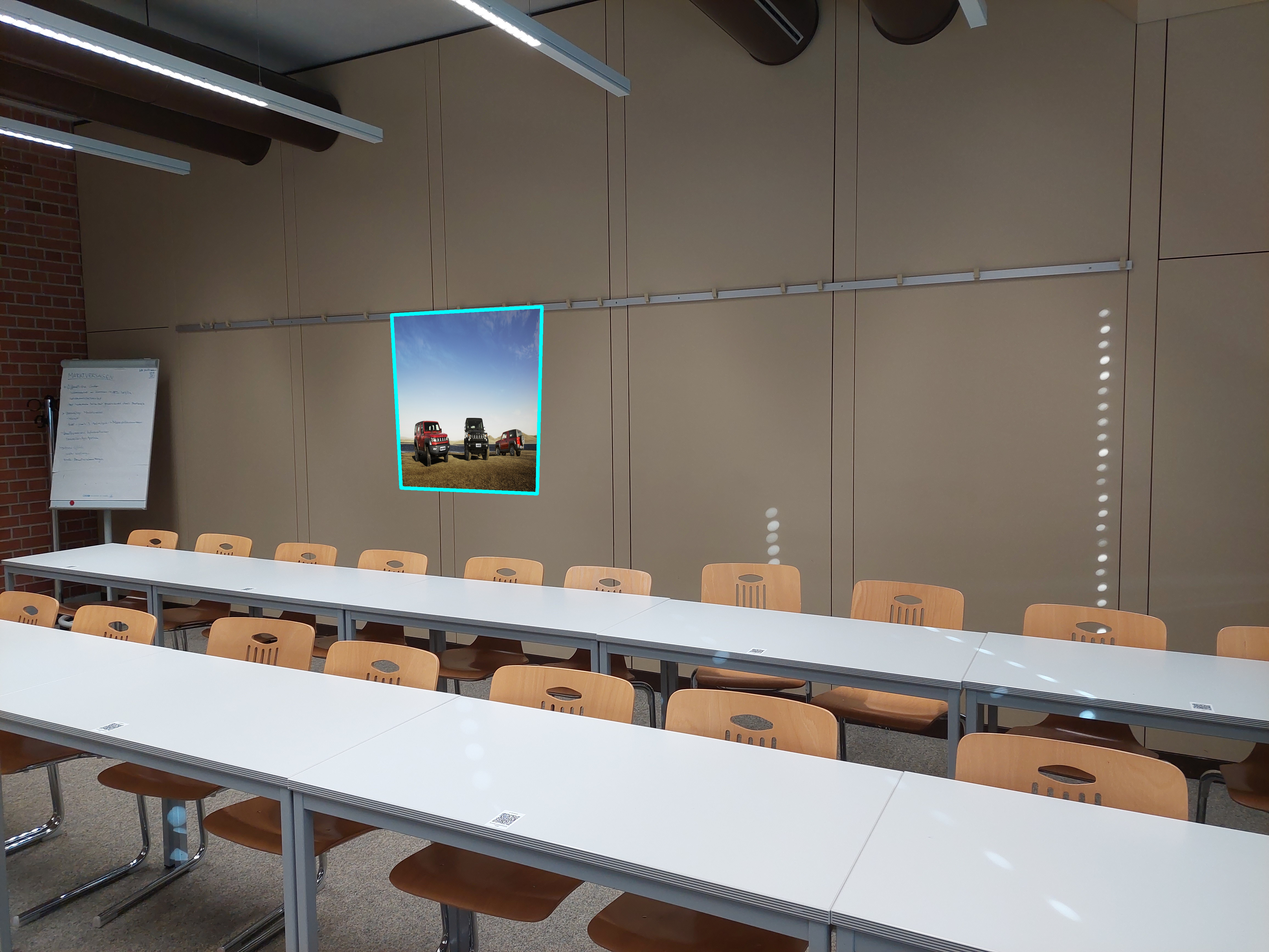
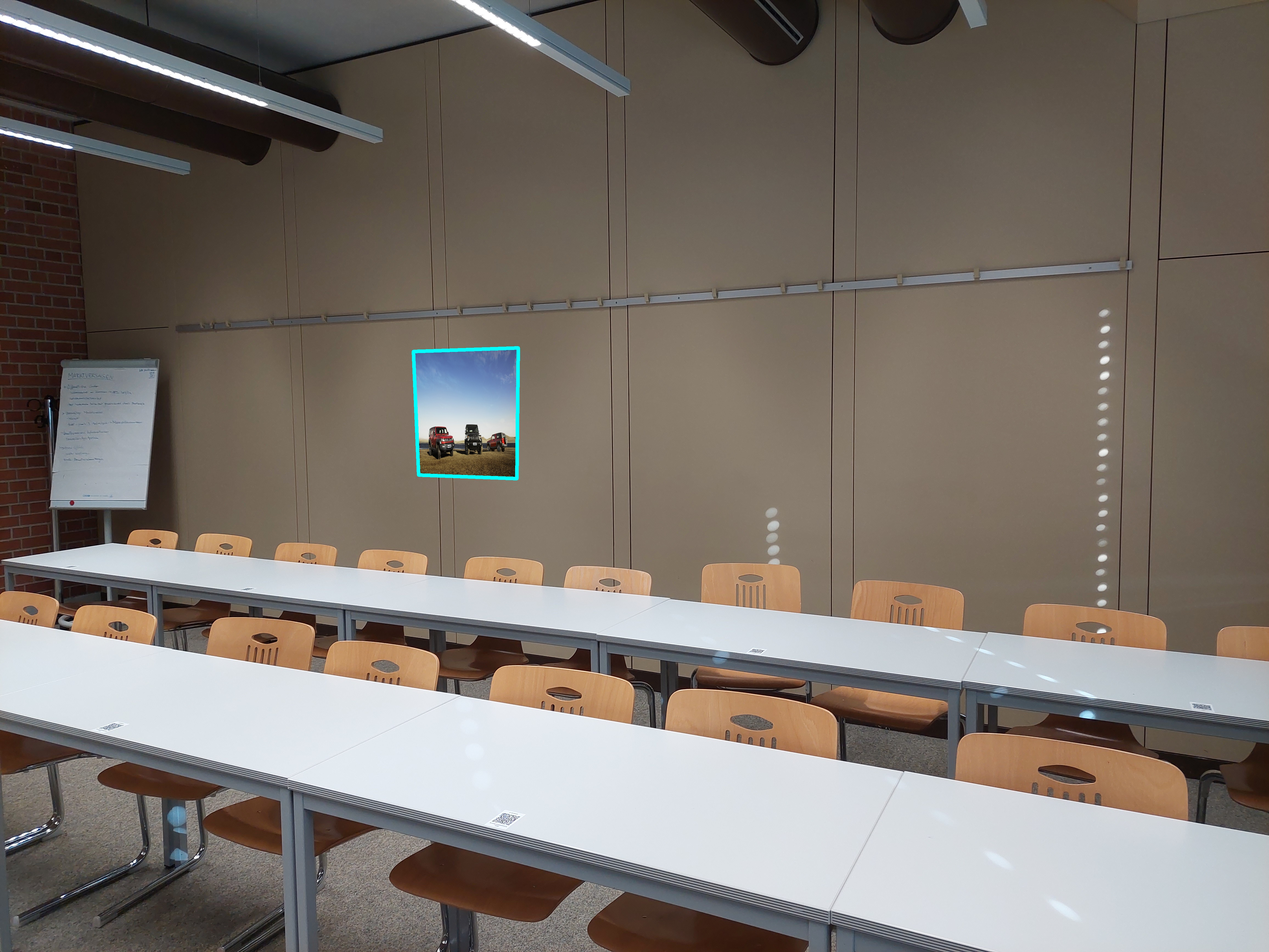
oke so if the marker is correct the  detection is better

Changed region(s): [[0.2803, 0.3114, 0.436, 0.5294]]

diff --git a/doc/CV_Task1.tex b/doc/CV_Task1.tex
@@ -8,20 +8,79 @@
 
 \begin{document}
 
-\title{Summary of Detection and Augmented Reality Rendering with Aruco Markers}
-\author{Jonas Alber, Schweitzer Tim}
-\date{9.11.2024}
+\title{Task 1 Summary}
+\author{Jonas Alber (), Schweitzer Tim (29844429)}
+\date{November 9, 2024}
 
 \maketitle 
 
-\noindent
-This document summarizes the process of using Aruco markers for augmented reality (AR) overlay on an image. The detection and transformation steps are as follows:
+\section*{Overview}
+This document provides an explanation of the process used for augmented reality (AR) rendering with Aruco markers.
 
-First, Aruco markers are detected within the image using \texttt{cv2.aruco.detectMarkers}. Upon detection, a perspective transformation matrix is computed using \texttt{cv2.getPerspectiveTransform} with the coordinates of the detected marker corners and the dimensions of the intended poster, allowing the poster to be resized and aligned accurately to fit the Aruco-marked area.
+\section*{Steps in the Process}
+\subsection*{1. Loading the Images}
+Two images are loaded into memory using the OpenCV \texttt{cv2.imread} function:
+\begin{itemize}
+    \item The base image containing the Aruco markers.
+    \item The poster image to be overlaid on the detected markers.
+\end{itemize}
 
-To prepare the image for overlay, a mask is created that defines the region intended for the AR content. This mask is inverted to keep all areas outside the AR region visible. Applying this mask to the original image clears space for the overlay. Next, the transformed poster is combined with the masked image using bitwise operations, effectively layering the AR content within the image. Additionally, an optional border can be added around the overlay area to enhance the visual effect.
+\subsection*{2. Aruco Marker Detection}
+Aruco markers are detected using \texttt{cv2.aruco.detectMarkers}, which:
+\begin{itemize}
+    \item Uses a predefined dictionary (\texttt{DICT\_6X6\_250}) to match marker patterns.
+    \item Returns the coordinates of detected marker corners.
+\end{itemize}
+The output is essential for aligning the AR content with the physical markers in the base image.
 
-\paragraph{Challenges} 
-Some difficulties arise when the marker size is considerably smaller than the poster, as this may cause scaling issues that distort the AR effect. Improving the result can be achieved by using multiple markers to better define the overlay area or by implementing pose estimation techniques, which require a calibrated camera for accurate alignment.
+\subsection*{3. Perspective Transformation}
+The function \texttt{cv2.getPerspectiveTransform} calculates a perspective transformation matrix (\textit{M}) by mapping the scaled coordinates of the poster to the detected marker coordinates. This step ensures that the AR content aligns correctly, compensating for the viewpoint distortion of the camera.
+
+\begin{figure}[h]
+    \centering
+    \includegraphics[width=0.7\textwidth]{transformed_poster.png}
+    \caption{Poster transformed to match the perspective of the Aruco marker.}
+\end{figure}
+
+\subsection*{4. Mask Creation and Application}
+To prepare for overlay:
+\begin{itemize}
+    \item A mask is created using \texttt{cv2.fillPoly} to define the overlay area.
+    \item The mask is inverted (\texttt{cv2.bitwise\_not}) to retain parts of the original image outside the overlay area.
+    \item A bitwise AND operation (\texttt{cv2.bitwise\_and}) removes the overlay region from the base image.
+\end{itemize}
+This step clears the AR region for the poster while preserving the rest of the base image.
+
+\begin{figure}[h]
+    \centering
+    \includegraphics[width=0.7\textwidth]{mask.png}
+    \caption{Binary mask defining the overlay region.}
+\end{figure}
+
+\subsection*{5. Overlaying the Transformed Poster}
+The resized and transformed poster is added to the cleared region using a bitwise OR operation (\texttt{cv2.bitwise\_or}). An optional border (\texttt{cv2.polylines}) can be drawn around the overlay area for emphasis.
+
+\begin{figure}[h]
+    \centering
+    \includegraphics[width=0.7\textwidth]{20221115_113440.png}
+    \caption{Final image with the transformed poster overlaid.}
+\end{figure}
+
+\section*{Challenges and Potential Improvements}
+\subsection*{Challenges}
+\begin{itemize}
+    \item \textbf{Scaling Issues:} If the detected marker is small compared to the poster size, distortions may arise.
+    \item \textbf{Single Marker Limitation:} Relying on a single marker can limit the stability and accuracy of the AR effect, especially for larger overlays.
+\end{itemize}
+
+\subsection*{Improvements and Limitations}
+\begin{itemize}
+    \item \textbf{Using Multiple Markers:} Adding multiple Aruco markers can enhance the precision of the overlay and better define the area for the AR content.
+    \item \textbf{Camera Calibration:} Implementing pose estimation with a calibrated camera could improve alignment accuracy, especially in real-world applications.
+    \item \textbf{Limitations:} These improvements were not implemented in the current version due to the limitations set by the Project.
+\end{itemize}
+
+\section*{Conclusion}
+This project demonstrates how Aruco markers and OpenCV can be used for augmented reality overlays. The workflow incorporates marker detection, perspective transformation, masking, and bitwise operations to achieve an accurate AR effect. While effective, in some cases the errors in scaling and placing become very clear.
 
 \end{document}

diff --git a/CV_Task1.py b/CV_Task1.py
@@ -9,8 +9,8 @@ import os
 script_dir = os.path.dirname(__file__)
 
 # Der relative Pfad zum Bild im 'img'-Ordner
-image__folder_path = os.path.join(script_dir, 'img')
-output_folder_path = os.path.join(script_dir, 'output')
+image__folder_path = os.path.join(script_dir, 'newImg')
+output_folder_path = os.path.join(script_dir, 'newOutput')
 img_list = [datei for datei in os.listdir(image__folder_path) if datei.endswith('.jpg')]
 poster_path = os.path.join(script_dir, 'poster.jpg')
 
@@ -23,8 +23,8 @@ for img in img_list:
         poster = cv2.imread(poster_path)
 
         #define constants 
-        poster_scale=14 #define the size of the Poster in the final Image (1 is the size of the marker)
-        y_offset = 80
+        poster_scale=10 #define the size of the Poster in the final Image (1 is the size of the marker)
+        y_offset = 50
 
         #show the image after each step
         def show_image(image, Function):
@@ -53,7 +53,7 @@ for img in img_list:
         ], dtype=np.float32)
 
         # Detect ArUco markers in the image
-        aruco_dict = aruco.getPredefinedDictionary(aruco.DICT_6X6_250)
+        aruco_dict = aruco.getPredefinedDictionary(aruco.DICT_6X6_100)
         parameters = aruco.DetectorParameters()
         arucocorners, ids, Error = cv2.aruco.detectMarkers(image, aruco_dict, parameters=parameters)
 
@@ -62,7 +62,7 @@ for img in img_list:
         pts = transformed_poster_corners.reshape(4, 2).astype(np.int32)
 
         transformed_poster= cv2.warpPerspective(poster, M,(image.shape[1], image.shape[0]))
-        show_image(transformed_poster,"Transformed Poster")
+        #show_image(transformed_poster,"Transformed Poster")
 
         # Create mask with zeros
         mask = np.zeros_like(image)
@@ -70,11 +70,11 @@ for img in img_list:
 
         # Invert mask to keep everything outside the polygon area
         mask = cv2.bitwise_not(mask)
-        show_image(mask,"Mask")
+        #show_image(mask,"Mask")
 
         # Apply mask to image to remove the polygon area
         masked_image = cv2.bitwise_and(image, mask)
-        show_image(masked_image, "Masked image")
+        #show_image(masked_image, "Masked image")
         final_image = cv2.bitwise_or(masked_image, transformed_poster)
 
         outline_thickness = 12  # Adjust as needed

diff --git a/Computer_Vision_Task 1_Part_1.py b/Computer_Vision_Task 1_Part_1.py
@@ -37,7 +37,7 @@ scaled_poster_corners = np.array([
 ], dtype=np.float32)
 
 # Detect ArUco markers in the image
-aruco_dict = aruco.getPredefinedDictionary(aruco.DICT_6X6_250)
+aruco_dict = aruco.getPredefinedDictionary(aruco.DICT_ARUCO_ORIGINAL)
 parameters = aruco.DetectorParameters()
 
 arucocorners, ids, Error = cv2.aruco.detectMarkers(image, aruco_dict, parameters=parameters)
